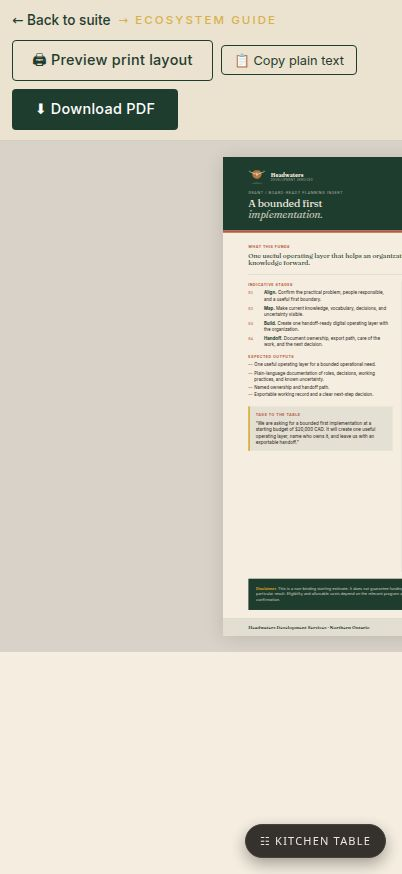
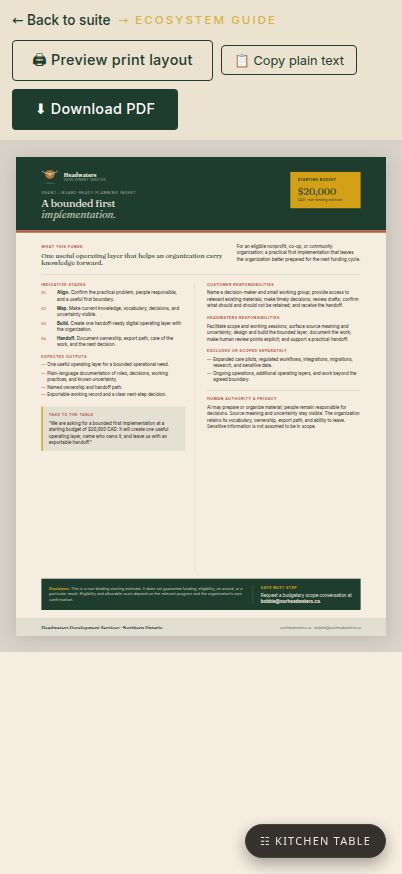
Update marketing component styling and refresh project screenshots
Replit-Commit-Author: Agent

diff --git a/artifacts/print-marketing/src/index.css b/artifacts/print-marketing/src/index.css
@@ -138,10 +138,14 @@ td, th {
   background: #d8d2c8;
   padding: 2rem 0;
   overflow: hidden;
+  display: flex;
+  justify-content: center;
+}
+.letter-page-stage__viewport {
+  flex: 0 0 auto;
 }
 .letter-page-stage__content {
   width: 8.5in;
-  margin: 0 auto;
 }
 .letter-page-stage .page-letter {
   margin-top: 0;
@@ -278,11 +282,10 @@ body.print-preview .page-letter-landscape::before {
   }
   .letter-page-stage {
     padding: 1rem 0;
-    height: calc(var(--page-scale, 1) * 1056px + 32px);
   }
   .letter-page-stage__content {
     transform: scale(var(--page-scale, 1));
-    transform-origin: top center;
+    transform-origin: top left;
   }
 }
 

diff --git a/artifacts/print-marketing/src/components/LetterPageStage.tsx b/artifacts/print-marketing/src/components/LetterPageStage.tsx
@@ -30,13 +30,16 @@ export function LetterPageStage({ children }: LetterPageStageProps) {
     "--page-scale": scale,
   };
 
-  if (scale < 1) {
-    stageStyle.height = `${LETTER_HEIGHT_PX * scale + MOBILE_GUTTER_PX}px`;
-  }
+  const viewportStyle: CSSProperties = {
+    width: `${LETTER_WIDTH_PX * scale}px`,
+    height: `${LETTER_HEIGHT_PX * scale}px`,
+  };
 
   return (
     <div className="letter-page-stage" style={stageStyle}>
-      {children}
+      <div className="letter-page-stage__viewport" style={viewportStyle}>
+        {children}
+      </div>
     </div>
   );
 }
